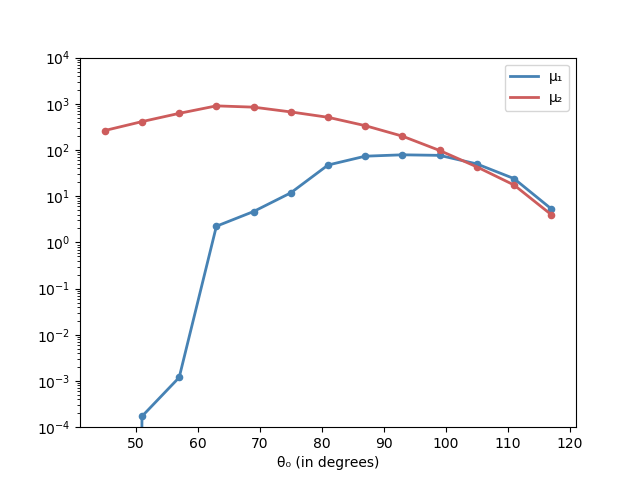
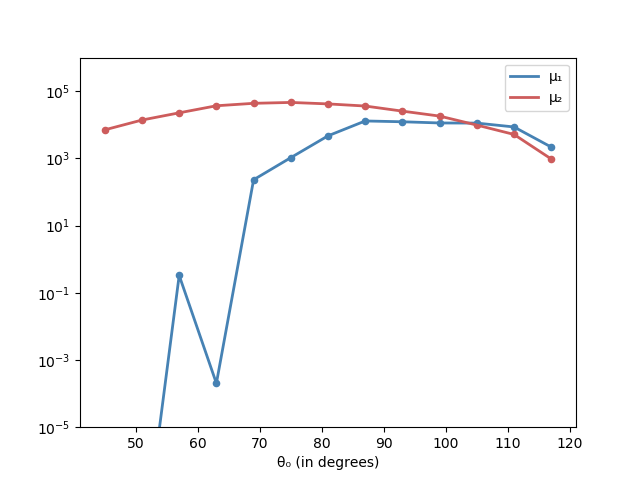
Deploy www.JuliaHomotopyContinuation.org to github.com/JuliaHomotopyContinuation/juliahomotopycontinuation.github.io.git:master

diff --git a/examples/energy-minimization/index.html b/examples/energy-minimization/index.html
@@ -188,7 +188,7 @@ probability measures on all configurations. As the probability measure we take t
 <p>$$\rho(\theta_0)=\int_{\theta(q) = \theta_0} f(q) \mathrm{d} q.$$</p>
 <p>In the following we will approximate this integral using homotopy continuation. At the end of the computation stands the following result summarized in the next plot.</p>
 <p style="text-align:center;"><img src="/images/cyclohexane_distribution.png" width="520px"/></p>
-<p>The plot shows a peak at around $\theta =  110^{\circ}$. It is known that the total energy of the cyclohexane system is minimized when all angles between consecutive bonds achieve $110.9^{\circ}$. Our experiment gives a good approximation of the true molecular geometry of cyclohexane. An example where all the angles between consecutive bonds are $110.9^{\circ}$ is shown in the picture above.</p>
+<p>The plot shows a peak at around $\theta =  114^{\circ}$. It is known that the total energy of the cyclohexane system is minimized when all angles between consecutive bonds achieve $110.9^{\circ}$. Our experiment gives a good approximation of the true molecular geometry of cyclohexane. An example where all the angles between consecutive bonds are $110.9^{\circ}$ is shown in the picture above.</p>
 <h2 id="equations-for-the-cyclohexane-variety">Equations for the cyclohexane variety</h2>
 <p>Due to rotational and translational invariance of the equations we define $q_1$ to be the origin, $q_6=(c,0,0)$ and $q_5$ to be rotated, such that its last entry is equal to zero (like in the <a href="cyclooctane.md">cyclooctane</a> example).</p>
 <p>We thus have $11$ variables $x(q)=(x_1,\ldots,x_{11})$. Let us implement this in <code>Julia</code>.</p>
@@ -231,7 +231,7 @@ f<span style="color:#f92672"></span>(q<span style="color:#f92672"></span>) <span
 $$</p>
 <p>for some $\Delta \theta &gt;0$. In our experiment we take $\Delta \theta = 3^\circ$ (degrees).</p>
 <p>The two integrals are evaluated using the <a href="/examples/monte-carlo-integration">integration guide</a>. Recall from this guide that we have $\mu_1(\theta_0) = \mathbb{E}  \overline{f}(A,b),$ where</p>
-<p>$$\overline{f}(A,b):= \sum_{q\in M: Ax(q)=b, \atop \theta- \Delta\theta &lt; \theta(q) &lt; \theta + \Delta\theta} \frac{f(q)}{\alpha(q)}\text{ and }\alpha(q) = \frac{\Gamma(\frac{n+1}{2})}{\sqrt{\pi}^{n+1}} \frac{\sqrt{1+\langle x(q), \pi_{x(q)} x(q)\rangle}}{1+\Vert x(q)\Vert^2},$$</p>
+<p>$$\overline{f}(A,b):= \sum_{q\in M: Ax(q)=b, \atop \theta- \Delta\theta &lt; \theta(q) &lt; \theta + \Delta\theta} \frac{f(q)}{\alpha(q)}\text{ and }\alpha(q) = \frac{\Gamma(\frac{n+1}{2})}{\sqrt{\pi}^{n+1}} \frac{\sqrt{1+\langle x(q), \pi_{x(q)} x(q)\rangle}}{(1+\Vert x(q)\Vert)^{\frac{n+1}{2}}},$$</p>
 <p>and where $\pi_x$ is the orthogonal projection onto the normal space $\mathrm{N}_x M$ of $M$ at $x$.</p>
 <p>Similarly, we define $\overline{1}(A,b)$ and get
 $\mu_2(\theta_0)= \mathbb{E}  \overline{1}(A,b).$</p>
@@ -245,7 +245,7 @@ J<span style="color:#f92672"></span>(x<span style="color:#f92672"></span>) <span
     J₀<span style="color:#f92672"></span> <span style="color:#f92672">=</span> J<span style="color:#f92672"></span>(x₀<span style="color:#f92672"></span>)
     U<span style="color:#f92672"></span> <span style="color:#f92672">=</span> <span style="color:#66d9ef">Matrix</span>(qr<span style="color:#f92672"></span>(J₀<span style="color:#f92672"></span>)<span style="color:#f92672">.</span>Q<span style="color:#f92672"></span>)
     π_x₀<span style="color:#f92672"></span> <span style="color:#f92672">=</span> U<span style="color:#f92672"></span> <span style="color:#f92672">*</span> (transpose<span style="color:#f92672"></span>(U<span style="color:#f92672"></span>) <span style="color:#f92672">*</span> x₀<span style="color:#f92672"></span>)
-    <span style="color:#66d9ef">return</span> sqrt<span style="color:#f92672"></span>(<span style="color:#ae81ff">1</span> <span style="color:#f92672">+</span> (x₀<span style="color:#f92672"></span> <span style="color:#f92672">⋅</span> π_x₀<span style="color:#f92672"></span>)) <span style="color:#f92672">/</span>  (<span style="color:#ae81ff">1</span> <span style="color:#f92672">+</span> (x₀<span style="color:#f92672"></span> <span style="color:#f92672">⋅</span> x₀<span style="color:#f92672"></span>))
+    <span style="color:#66d9ef">return</span> sqrt<span style="color:#f92672"></span>(<span style="color:#ae81ff">1</span> <span style="color:#f92672">+</span> (x₀<span style="color:#f92672"></span> <span style="color:#f92672">⋅</span> π_x₀<span style="color:#f92672"></span>)) <span style="color:#f92672">/</span>  sqrt<span style="color:#f92672"></span>(<span style="color:#ae81ff">1</span> <span style="color:#f92672">+</span> (x₀<span style="color:#f92672"></span> <span style="color:#f92672">⋅</span> x₀<span style="color:#f92672"></span>))<span style="color:#f92672">^</span>(n<span style="color:#f92672"></span><span style="color:#f92672">+</span><span style="color:#ae81ff">1</span>)
 <span style="color:#66d9ef">end</span>
 </code></pre></div><p>We also need a function for the evaluation of $\theta(q)$.</p>
 <div class="highlight"><pre style="color:#f8f8f2;background-color:#272822;-moz-tab-size:4;-o-tab-size:4;tab-size:4"><code class="language-julia" data-lang="julia">θ<span style="color:#f92672"></span>(q<span style="color:#f92672"></span>) <span style="color:#f92672">=</span> (<span style="color:#ae81ff">1</span><span style="color:#f92672">/</span><span style="color:#ae81ff">6</span>) <span style="color:#f92672">*</span> (
@@ -333,24 +333,24 @@ empirical_distributions_f̄<span style="color:#f92672"></span> <span style="colo
 <p>How good is the estimate? The analysis of variance from the <a href="/examples/monte-carlo-integration">the integration guide</a> yields for the empirical mean $\mathrm{E}(f,k) = \frac{1}{k}(\overline{f}(A_1,b_1) + \cdots \overline{f}(A_k,b_k))$:</p>
 <p>$$\mathrm{Prob}\{\vert \mathrm{E}(f,k) -  \mu_1(\theta_0) \vert \geq \varepsilon \} \leq \frac{\sigma^2}{\varepsilon^2k},$$</p>
 <p>where $\sigma^2$ is the variance of $\overline{f}(A,b)$ and similar for $E(1,k)$. From the plot above we can deduce that</p>
-<div class="highlight"><pre style="color:#f8f8f2;background-color:#272822;-moz-tab-size:4;-o-tab-size:4;tab-size:4"><code class="language-julia" data-lang="julia">ε<span style="color:#f92672"></span> <span style="color:#f92672">=</span> <span style="color:#ae81ff">2</span>
+<div class="highlight"><pre style="color:#f8f8f2;background-color:#272822;-moz-tab-size:4;-o-tab-size:4;tab-size:4"><code class="language-julia" data-lang="julia">ε<span style="color:#f92672"></span> <span style="color:#f92672">=</span> <span style="color:#ae81ff">1e2</span>
 </code></pre></div><p>is a good accuracy for both $\mu_1(\theta_0)$ and $\mu_2(\theta_0)$.</p>
 <p>Using the empirical variances to approximate the true variance we get the following:</p>
 <pre><code class="language-julia-repl" data-lang="julia-repl">julia&gt; s²(f̄) = std.(empirical_distributions_f̄)
 julia&gt; maximum(s²(f̄) ./ (ε^2 * k))
-0.020642667724759842
+0.0018945016028972723
 </code></pre><p>and</p>
 <pre><code class="language-julia-repl" data-lang="julia-repl">julia&gt; s²(const1̄) = std.(empirical_distributions_const1̄)
 julia&gt; maximum(s²(const1̄) ./ (ε^2 * k))
-0.03996983475573611
-</code></pre><p>That is, the maximum deviation probability is less than $4$% in both cases. We conclude that our approximation of $\rho(\theta) = K\mathrm{Prob}\{\theta(q) = \theta_0\}$ is a good approximation.</p>
+0.0018301742629020274
+</code></pre><p>That is, the maximum deviation probability is less than $1$% in both cases. We conclude that our approximation of $\rho(\theta) = K\mathrm{Prob}\{\theta(q) = \theta_0\}$ is a good approximation.</p>
 <strong>Cite this example:</strong>
 <pre style="background: transparent;">
 <code class="language-julia hljs">@Misc{ energy-minimization2020 ,
     author =  { Paul Breiding },
     title = { Energy minimization },
     howpublished = { \url{ https://www.JuliaHomotopyContinuation.org/examples/energy-minimization/ } },
-    note = { Accessed: February 10, 2020 }
+    note = { Accessed: March 6, 2020 }
 }</code>
 </pre>
 

diff --git a/examples/monte-carlo-integration/index.html b/examples/monte-carlo-integration/index.html
@@ -175,7 +175,7 @@
 <p>Consider the random variable</p>
 <p>$$\overline{f}(A,b):= \sum_{x\in V: Ax=b} \frac{f(x)}{\alpha(x)},$$</p>
 <p>where</p>
-<p>$$\alpha(x) = \frac{\Gamma(\frac{n+1}{2})}{\sqrt{\pi}^{n+1}} \frac{\sqrt{1+\langle x, \pi_x x\rangle}}{1+\Vert x\Vert^2}$$</p>
+<p>$$\alpha(x) = \frac{\Gamma(\frac{n+1}{2})}{\sqrt{\pi}^{n+1}} \frac{\sqrt{1+\langle x, \pi_x x\rangle}}{(1+\Vert x\Vert)^{\frac{n+1}{2}}}$$</p>
 <p>and where $n=\mathrm{dim}(V)$, and where $\pi_x$ is the orthogonal projection onto the normal space of $V$ at $x$. The main theorem of <a href="https://arxiv.org/abs/1810.06271">the article</a> yields</p>
 <p>$$\mathbb{E}  \overline{f}(A,b) = \int_V f(x)  \mathrm{d} x.$$</p>
 <p>The empirical mean $\mathrm{E}(f,k) = \frac{1}{k}(\overline{f}(A_1,b_1) + \cdots \overline{f}(A_k,b_k))$ for $k$ sample pairs $(A_1,b_1),\ldots, (A_k,b_k)$ converges to the integral of $f$ over $V$ as $k\to \infty$.</p>
@@ -204,7 +204,7 @@ J<span style="color:#f92672"></span> <span style="color:#f92672">=</span> differ
 <span style="color:#66d9ef">end</span>
 <span style="color:#66d9ef">function</span> α<span style="color:#f92672"></span>(z<span style="color:#f92672"></span>, J<span style="color:#f92672"></span>)
     N<span style="color:#f92672"></span> <span style="color:#f92672">=</span> normalize!<span style="color:#f92672"></span>([j<span style="color:#f92672"></span>(x<span style="color:#f92672"></span><span style="color:#f92672">=</span><span style="color:#f92672">&gt;</span>z<span style="color:#f92672"></span>) <span style="color:#66d9ef">for</span> j<span style="color:#f92672"></span> <span style="color:#66d9ef">in</span> J<span style="color:#f92672"></span>])
-    Γ<span style="color:#f92672"></span> <span style="color:#f92672">*</span> sqrt<span style="color:#f92672"></span>(<span style="color:#ae81ff">1</span> <span style="color:#f92672">+</span> (z<span style="color:#f92672"></span> <span style="color:#f92672">⋅</span> N<span style="color:#f92672"></span>)<span style="color:#f92672">^</span><span style="color:#ae81ff">2</span>) <span style="color:#f92672">/</span> (<span style="color:#ae81ff">1</span> <span style="color:#f92672">+</span> z⋅z<span style="color:#f92672"></span>)
+    Γ<span style="color:#f92672"></span> <span style="color:#f92672">*</span> sqrt<span style="color:#f92672"></span>(<span style="color:#ae81ff">1</span> <span style="color:#f92672">+</span> (z<span style="color:#f92672"></span> <span style="color:#f92672">⋅</span> N<span style="color:#f92672"></span>)<span style="color:#f92672">^</span><span style="color:#ae81ff">2</span>) <span style="color:#f92672">/</span> sqrt<span style="color:#f92672"></span>(<span style="color:#ae81ff">1</span> <span style="color:#f92672">+</span> z⋅z<span style="color:#f92672"></span>)<span style="color:#f92672">^</span>(n<span style="color:#f92672"></span><span style="color:#f92672">+</span><span style="color:#ae81ff">1</span>)
 <span style="color:#66d9ef">end</span>
 </code></pre></div><p>For computing $f(A,b)$ we have to intersect $V$ with linear spaces. Following <a href="/guides/many-systems">this guide</a> we first create a suitable start system by intersecting $V$ with a random complex linear space of dimension $N-n$.</p>
 <div class="highlight"><pre style="color:#f8f8f2;background-color:#272822;-moz-tab-size:4;-o-tab-size:4;tab-size:4"><code class="language-julia" data-lang="julia"><span style="color:#a6e22e">@polyvar</span><span style="color:#f92672"></span> A<span style="color:#f92672"></span>[<span style="color:#ae81ff">1</span><span style="color:#f92672">:</span>n<span style="color:#f92672"></span>, <span style="color:#ae81ff">1</span><span style="color:#f92672">:</span>N<span style="color:#f92672"></span>] b<span style="color:#f92672"></span>[<span style="color:#ae81ff">1</span><span style="color:#f92672">:</span>n<span style="color:#f92672"></span>]
@@ -245,7 +245,7 @@ julia&gt; s² / (ε^2 * k)
     author =  { Paul Breiding },
     title = { Monte Carlo integration },
     howpublished = { \url{ https://www.JuliaHomotopyContinuation.org/examples/monte-carlo-integration/ } },
-    note = { Accessed: February 10, 2020 }
+    note = { Accessed: March 6, 2020 }
 }</code>
 </pre>
 

diff --git a/examples/critical-points/index.html b/examples/critical-points/index.html
@@ -209,7 +209,7 @@ monodromy_solve<span style="color:#f92672"></span>(F_u<span style="color:#f92672
     author =  { Paul Breiding, Sascha Timme },
     title = { The point on a variety that minimizes the distance to a given point },
     howpublished = { \url{ https://www.JuliaHomotopyContinuation.org/examples/critical-points/ } },
-    note = { Accessed: February 10, 2020 }
+    note = { Accessed: March 6, 2020 }
 }</code>
 </pre>
 

diff --git a/examples/logarithmic-voronoi/index.html b/examples/logarithmic-voronoi/index.html
@@ -363,7 +363,7 @@ scatter!<span style="color:#f92672"></span>(c₀<span style="color:#f92672"></sp
     author =  { Yulia Alexandr, Alex Heaton, and Sascha Timme },
     title = { Computing a logarithmic Voronoi cell },
     howpublished = { \url{ https://www.JuliaHomotopyContinuation.org/examples/logarithmic-voronoi/ } },
-    note = { Accessed: February 10, 2020 }
+    note = { Accessed: March 6, 2020 }
 }</code>
 </pre>
 

diff --git a/examples/alts-problem/index.html b/examples/alts-problem/index.html
@@ -369,7 +369,7 @@ results<span style="color:#f92672"></span> <span style="color:#f92672">=</span> 
     author =  { Paul Breiding, Anna Eckhardt and Sascha Timme },
     title = { Alt&#39;s problem },
     howpublished = { \url{ https://www.JuliaHomotopyContinuation.org/examples/alts-problem/ } },
-    note = { Accessed: February 10, 2020 }
+    note = { Accessed: March 6, 2020 }
 }</code>
 </pre>
 

diff --git a/examples/reach-curve/index.html b/examples/reach-curve/index.html
@@ -308,7 +308,7 @@ The curve $C$ and its points of critical curvature. The point of maximal curvatu
     author =  { Paul Breiding and Sascha Timme },
     title = { The reach of a plane curve },
     howpublished = { \url{ https://www.JuliaHomotopyContinuation.org/examples/reach-curve/ } },
-    note = { Accessed: February 10, 2020 }
+    note = { Accessed: March 6, 2020 }
 }</code>
 </pre>
 

diff --git a/examples/computer-vision/index.html b/examples/computer-vision/index.html
@@ -259,7 +259,7 @@ reconstructed_points<span style="color:#f92672"></span> <span style="color:#f926
     author =  { Paul Breiding, Christoph Schmidt },
     title = { Computer vision },
     howpublished = { \url{ https://www.JuliaHomotopyContinuation.org/examples/computer-vision/ } },
-    note = { Accessed: February 10, 2020 }
+    note = { Accessed: March 6, 2020 }
 }</code>
 </pre>
 

diff --git a/examples/cpd/index.html b/examples/cpd/index.html
@@ -208,7 +208,7 @@ result<span style="color:#f92672"></span> <span style="color:#f92672">=</span> m
     author =  { Paul Breiding },
     title = { Tensor decomposition and homotopy continuation },
     howpublished = { \url{ https://www.JuliaHomotopyContinuation.org/examples/cpd/ } },
-    note = { Accessed: February 10, 2020 }
+    note = { Accessed: March 6, 2020 }
 }</code>
 </pre>
 

diff --git a/examples/optimization/index.html b/examples/optimization/index.html
@@ -216,7 +216,7 @@ minval<span style="color:#f92672"></span>, minindex<span style="color:#f92672"><
     author =  { Sascha Timme },
     title = { Minimizing a function over the sphere },
     howpublished = { \url{ https://www.JuliaHomotopyContinuation.org/examples/optimization/ } },
-    note = { Accessed: February 10, 2020 }
+    note = { Accessed: March 6, 2020 }
 }</code>
 </pre>
 

diff --git a/examples/6rlinkrobot/index.html b/examples/6rlinkrobot/index.html
@@ -252,7 +252,7 @@ For even more performance improvements you can take a look at our <a href="/guid
     author =  { Sascha Timme },
     title = { The 6R-serial link robot },
     howpublished = { \url{ https://www.JuliaHomotopyContinuation.org/examples/6rlinkrobot/ } },
-    note = { Accessed: February 10, 2020 }
+    note = { Accessed: March 6, 2020 }
 }</code>
 </pre>
 

diff --git a/examples/cyclooctane/index.html b/examples/cyclooctane/index.html
@@ -224,7 +224,7 @@ Here is a gif that shows 4470 points from the cyclooctane variety, projected ont
     author =  { Paul Breiding },
     title = { Cyclooctane },
     howpublished = { \url{ https://www.JuliaHomotopyContinuation.org/examples/cyclooctane/ } },
-    note = { Accessed: February 10, 2020 }
+    note = { Accessed: March 6, 2020 }
 }</code>
 </pre>
 

diff --git a/examples/tritangents/index.html b/examples/tritangents/index.html
@@ -240,7 +240,7 @@ R<span style="color:#f92672"></span> <span style="color:#f92672">=</span> solve<
     author =  { Paul Breiding },
     title = { Tritangents },
     howpublished = { \url{ https://www.JuliaHomotopyContinuation.org/examples/tritangents/ } },
-    note = { Accessed: February 10, 2020 }
+    note = { Accessed: March 6, 2020 }
 }</code>
 </pre>
 
